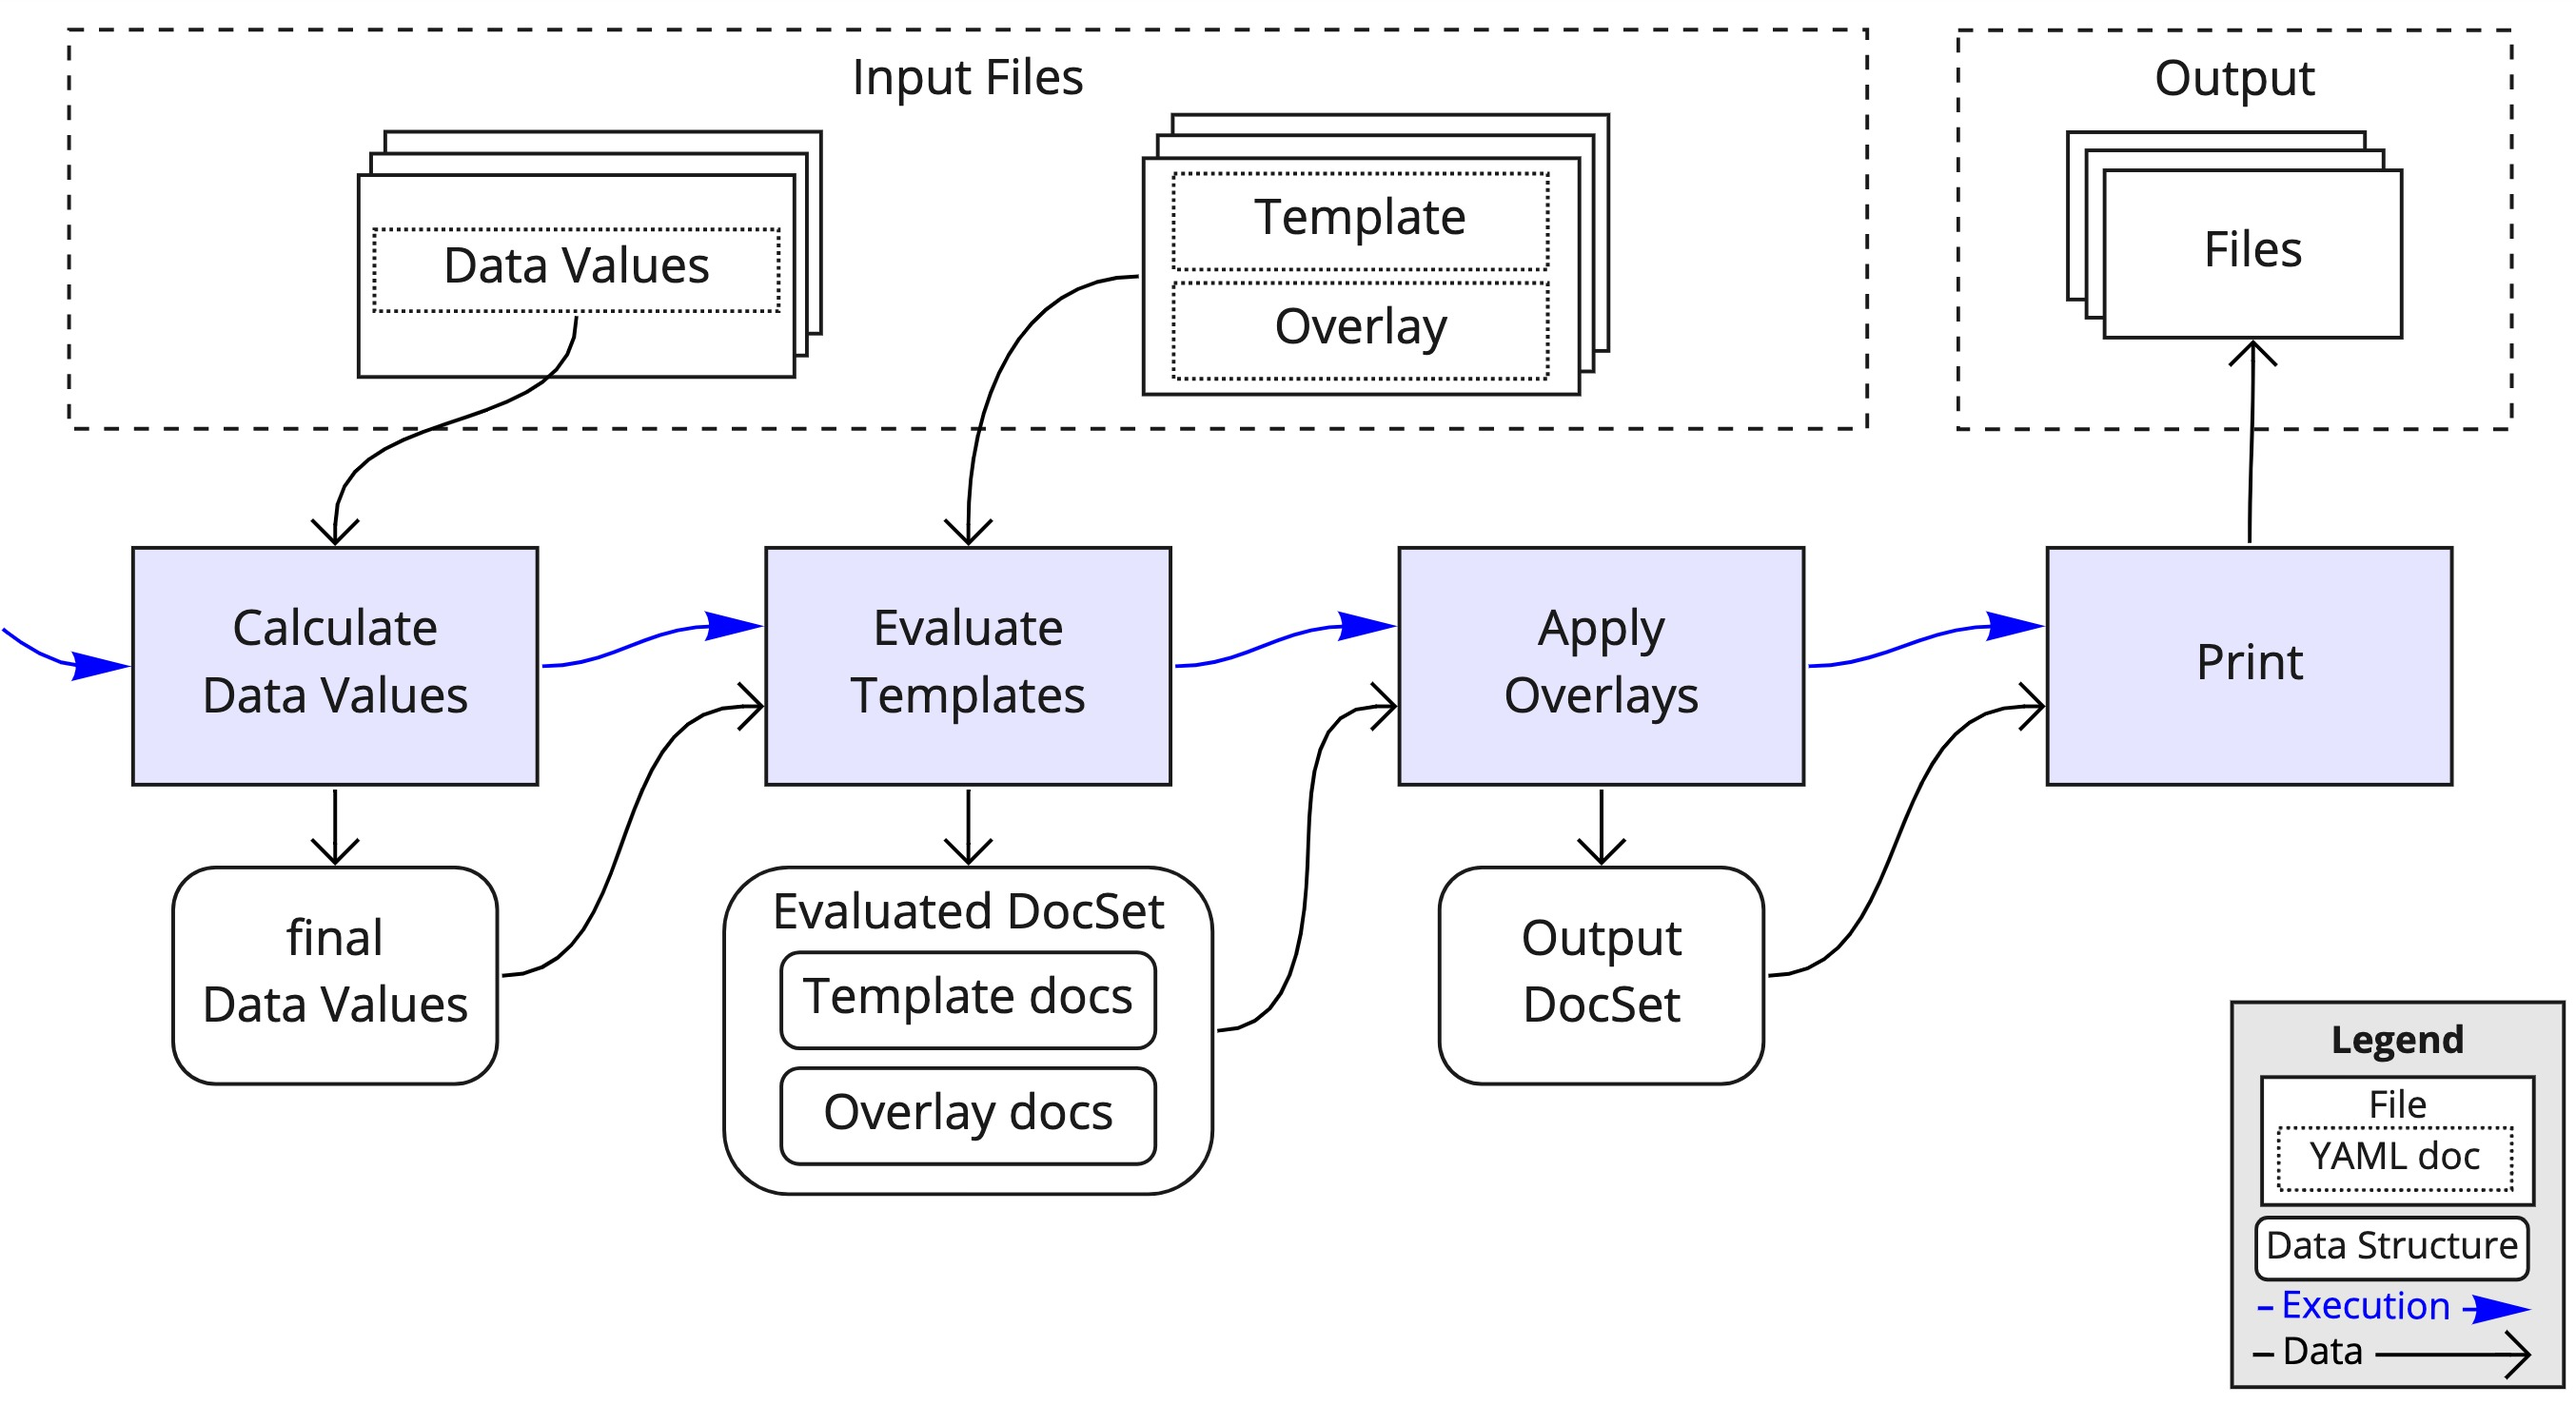
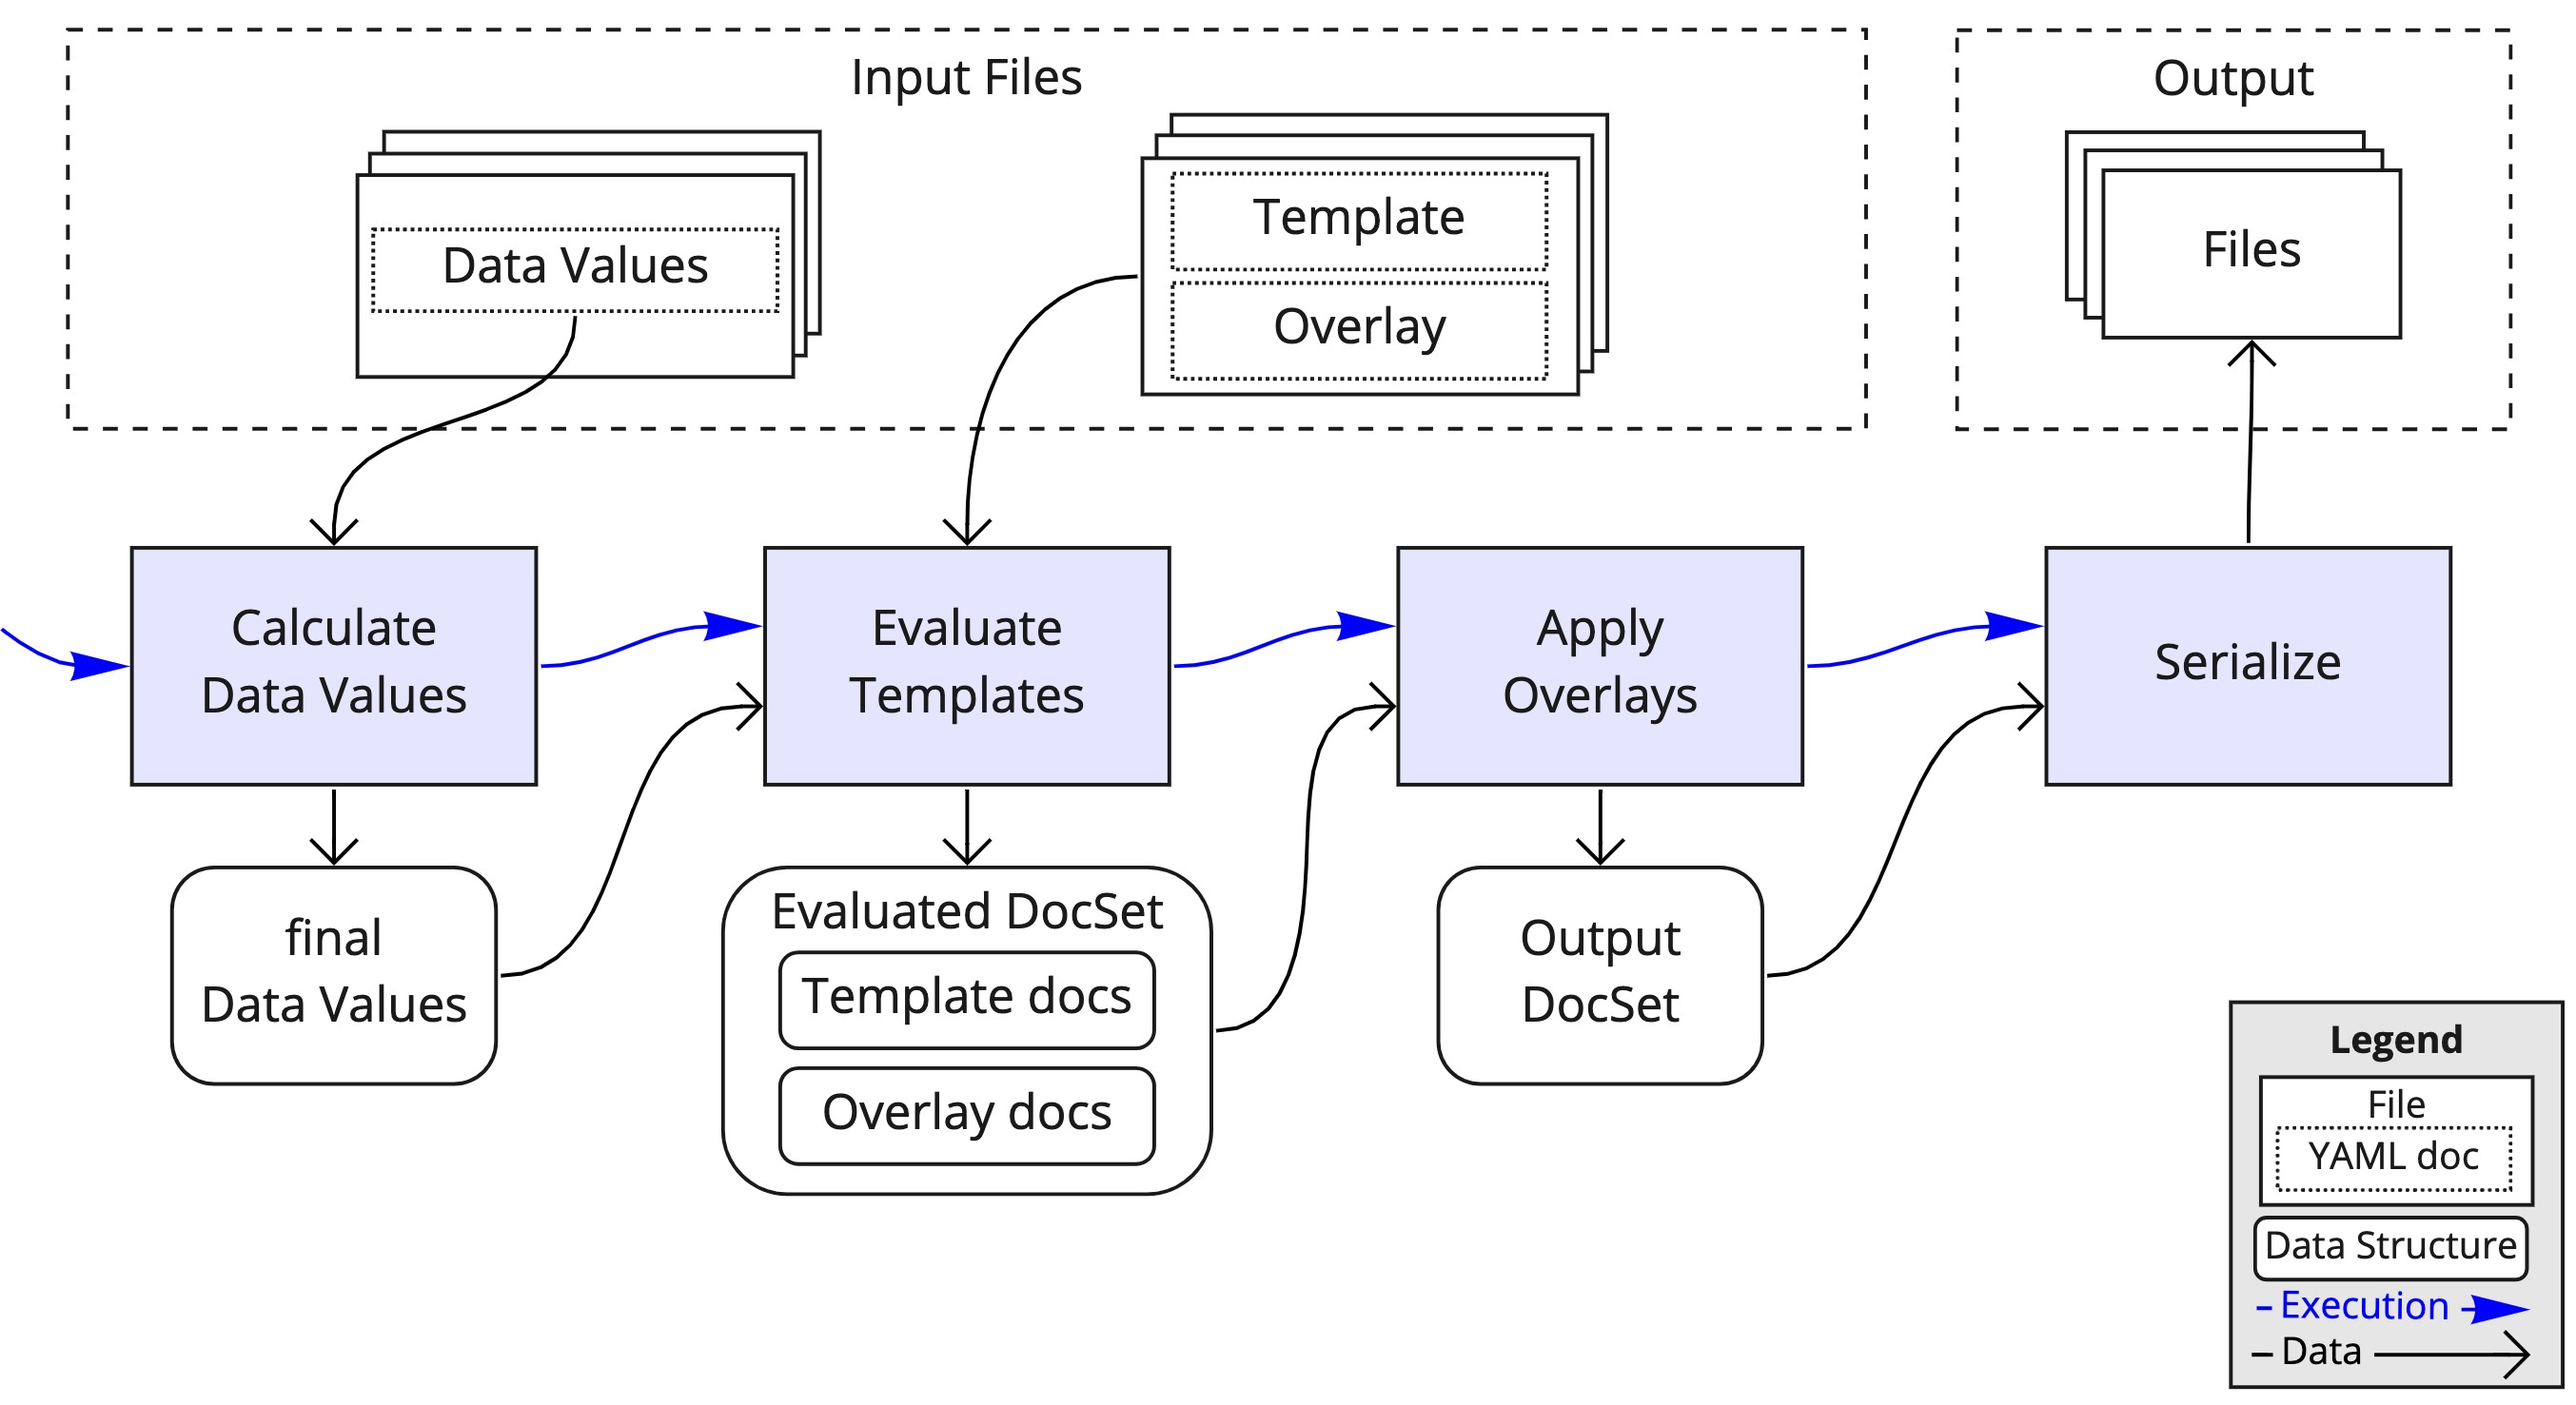
Name output stage as "Serialize" not "Print"
... and give a more realistic example of invoking `ytt` to avoid
confusion.

diff --git a/content/ytt/docs/latest/how-it-works.md b/content/ytt/docs/latest/how-it-works.md
@@ -11,7 +11,7 @@ Let's get an idea of how `ytt` works by looking at the high-level concepts and f
 When you invoke `ytt` ...
 
 ```console
-$ ytt -f (input files)
+$ ytt -f values/ -f config/
 ```
 
 ... you can think of it as a pipeline in four stages, looking something like this:
@@ -125,11 +125,11 @@ Next...
    
 The result is (shown as "Output DocSet" in the diagram, [above](#the-pipeline)) — the finalized set of YAML documents, in memory. Which leaves one last step...
 
-### Step 4: Print
+### Step 4: Serialize
 
 This is simply iterating over the "Output Document Set", rendering each YAML Document ("Output Files", [above](#the-pipeline)).
 
-The result is sent to standard out (suitable for piping into other tools). If desired the output can be sent instead to disk using the [`--output...` flags](outputs.md).
+The result is sent to standard out (suitable for piping into other tools). If desired, the output can be sent instead to disk using the [`--output...` flags](outputs.md).
 
 ## Further Reading
 
